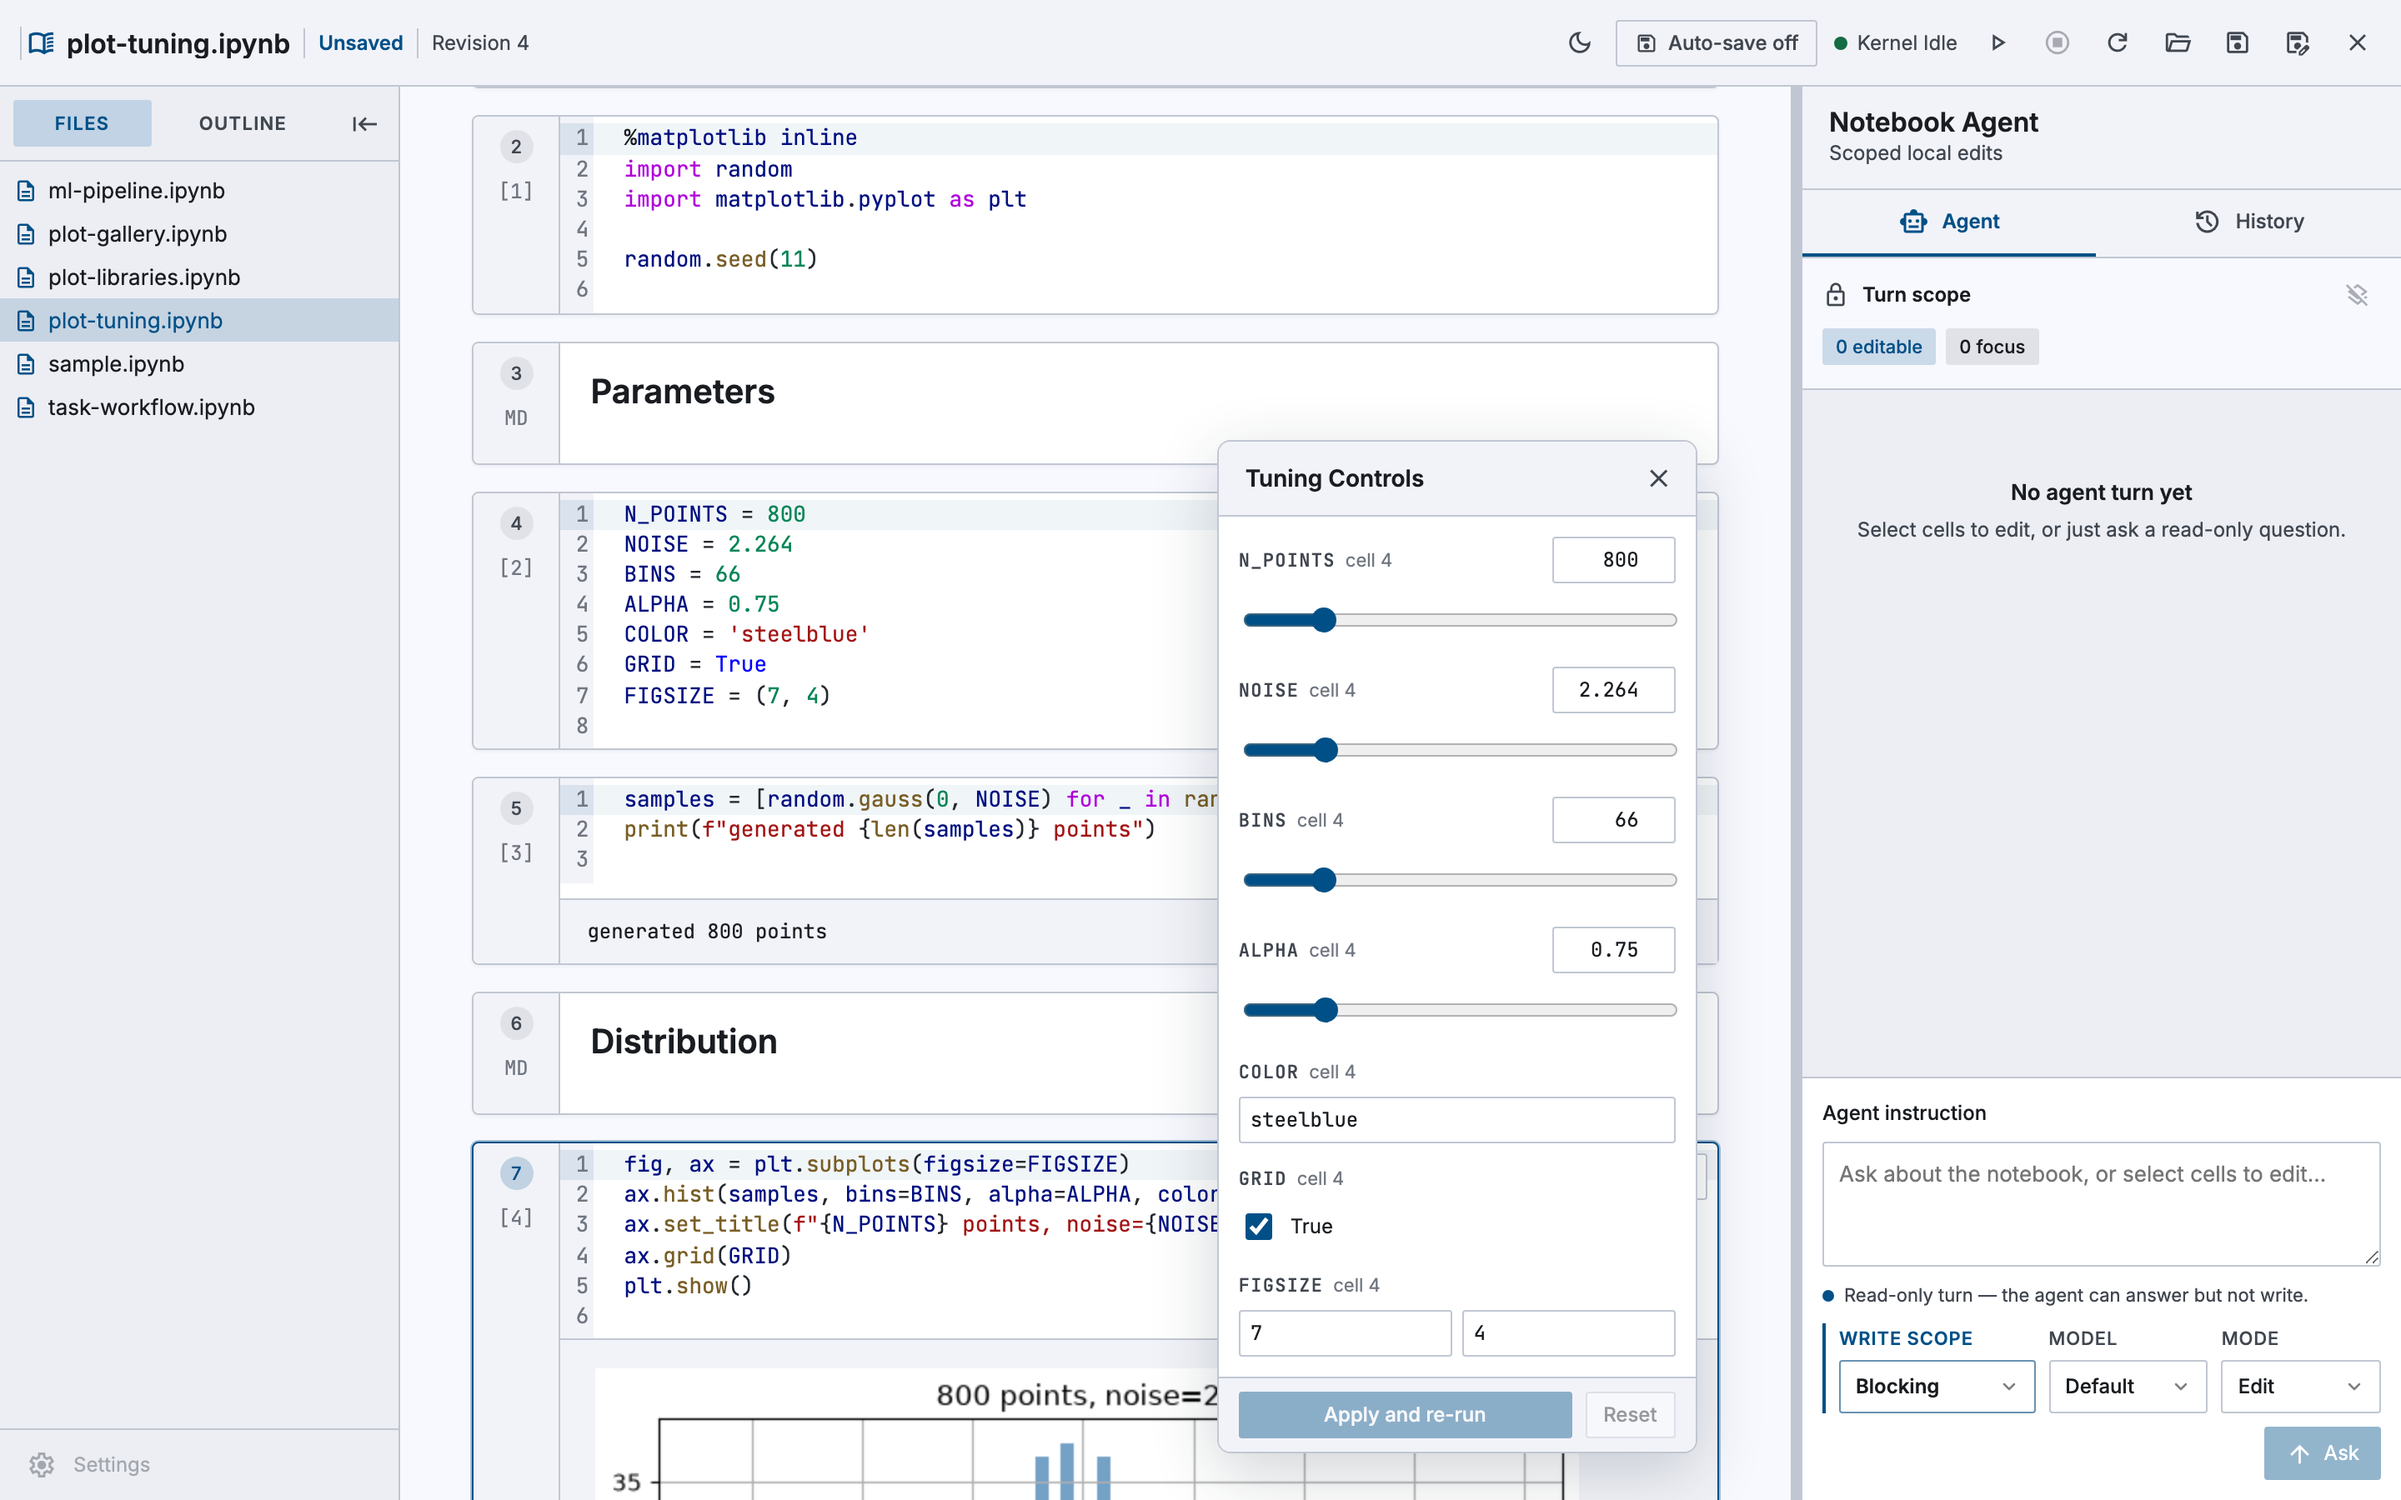
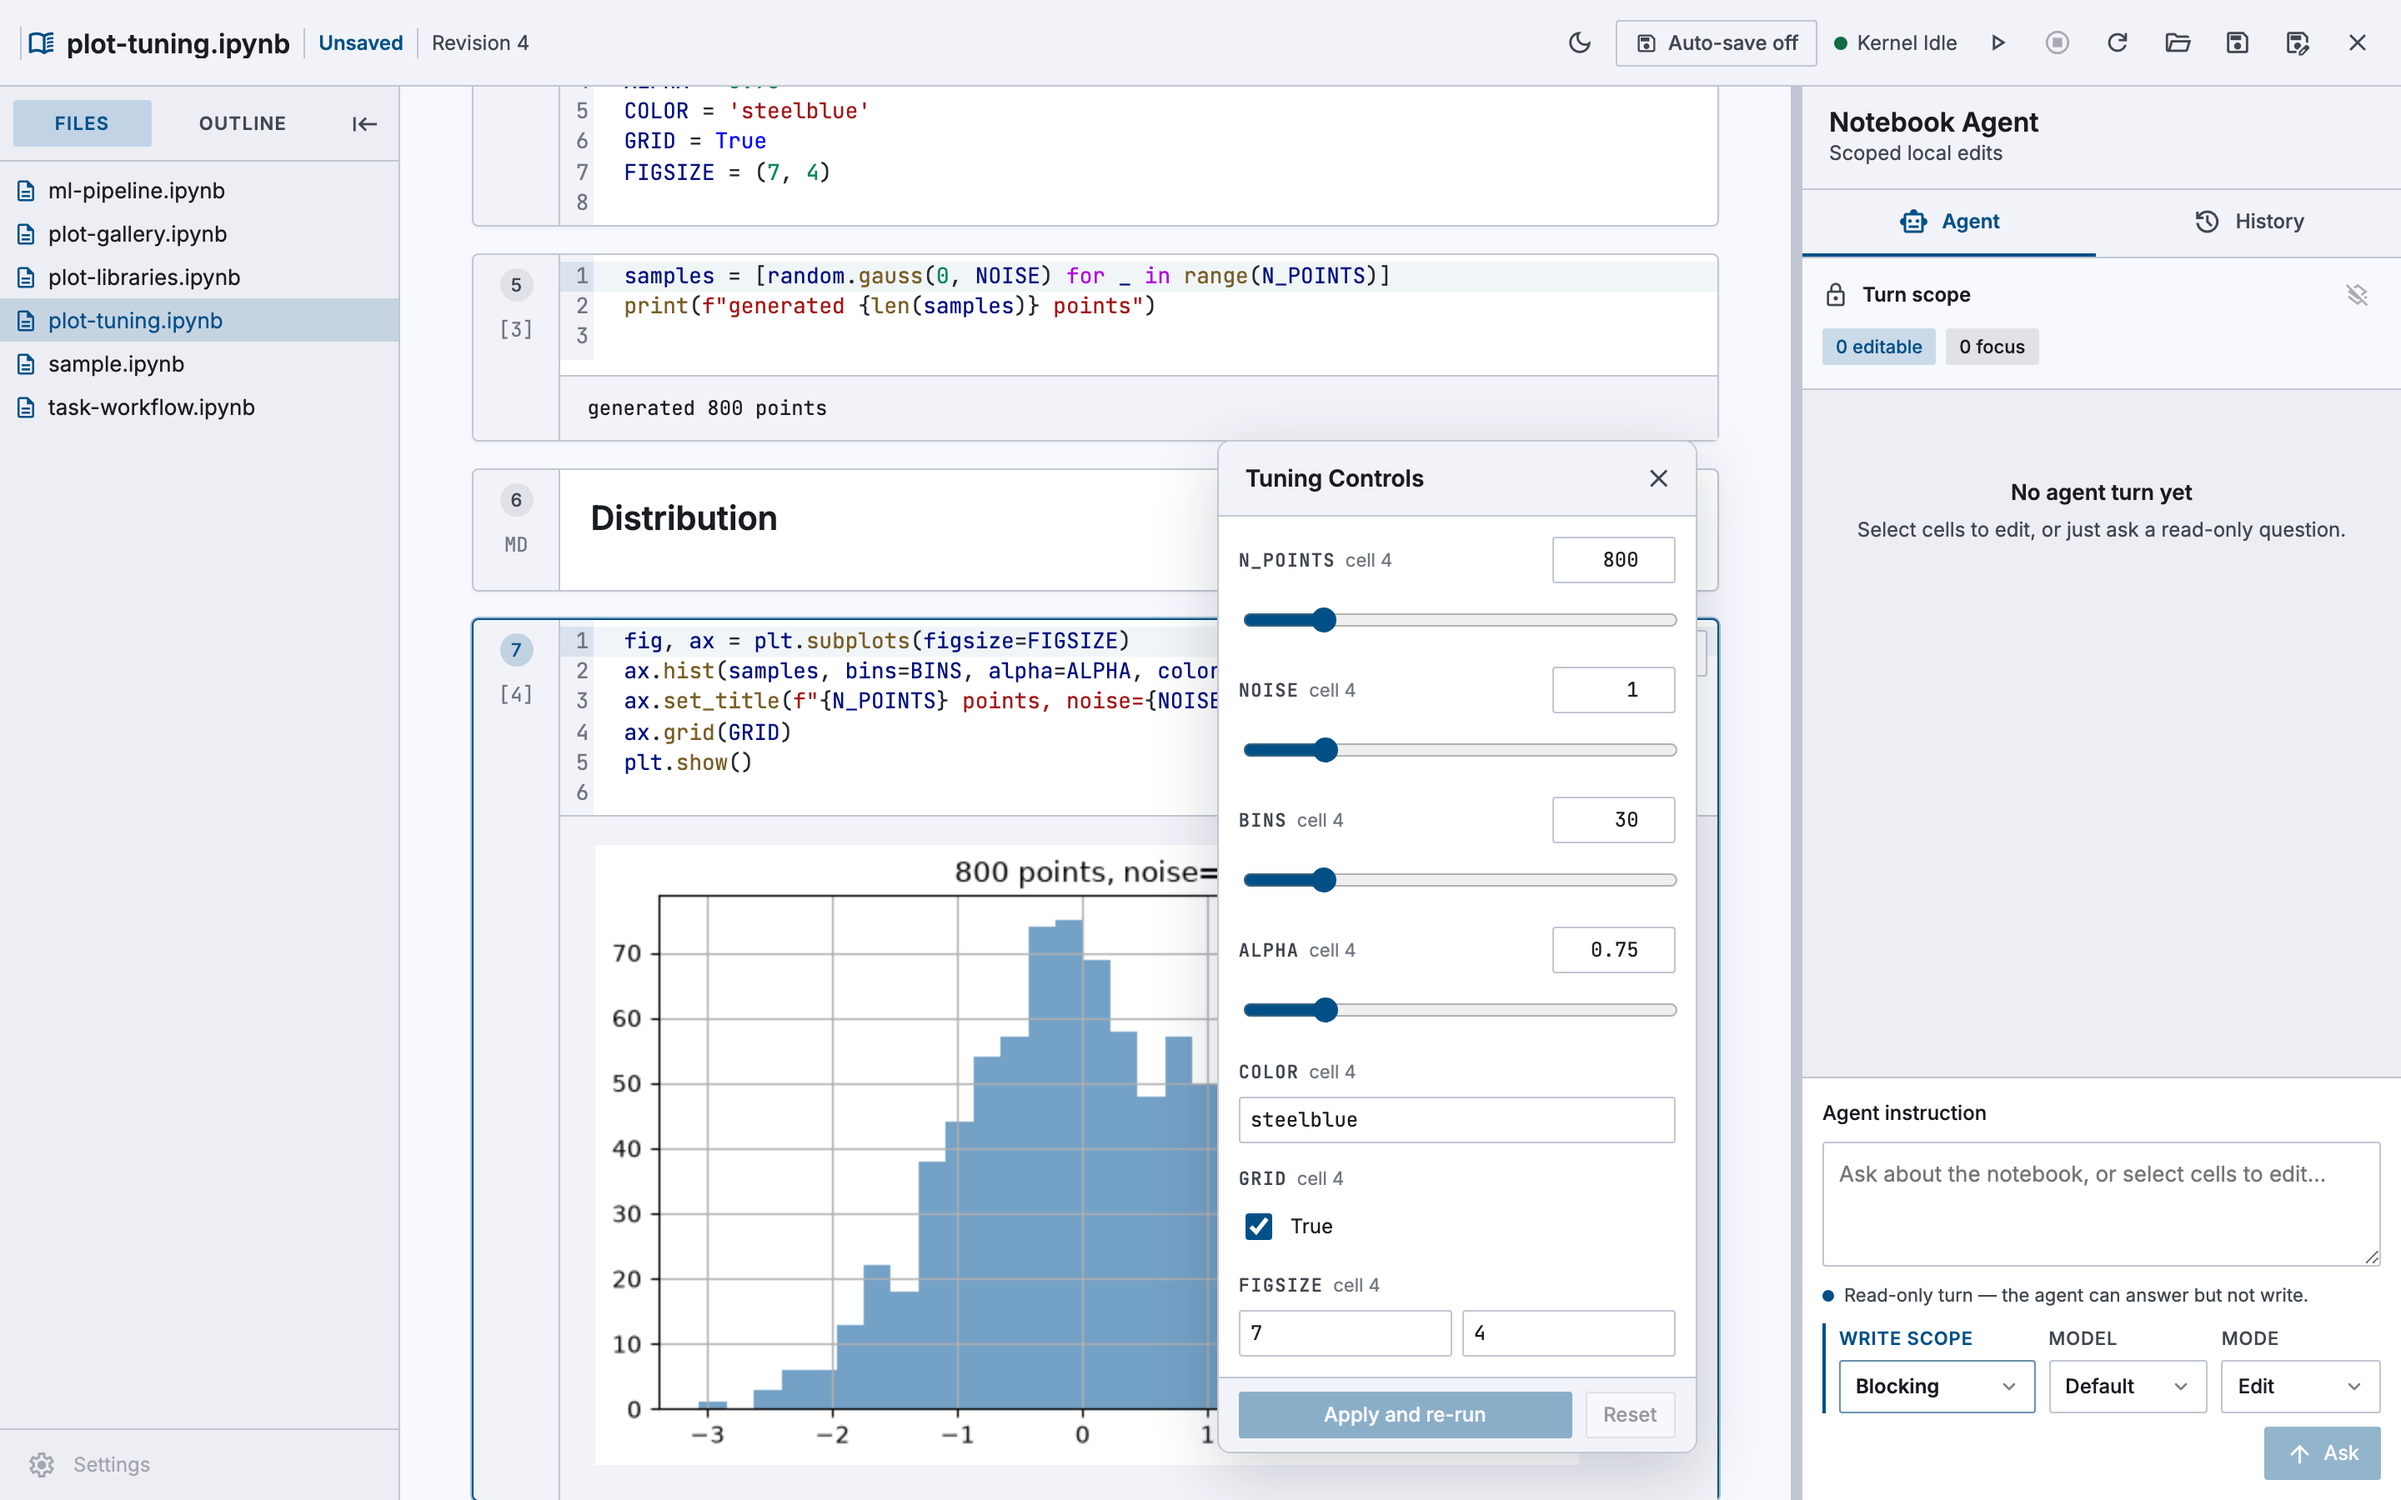
readme: add the plot tuner, framed so the plot is in it
A fourth shot, and the one feature the README documented nowhere: the
knobs exist, and someone reading the page had no way to learn that.

The shot needed re-taking first. 07 photographed the popover with the
histogram below the fold — controls, and not the thing they control,
which is the whole point of the panel. The capture script now scrolls
`.tuning-preview-column` into frame before shooting: the preview sits in
flow where the cell's outputs were and the popover is position:fixed, so
scrolling moves the picture and leaves the controls put. The knobs still
cover part of the plot, which is what tuning actually looks like — the
popover floats over the notebook by design (stitch-diff B6).

The caption says what the panel is for rather than what it contains,
because the preview/apply split is the part that is not guessable from a
picture: moving a knob re-runs the cell into a preview labelled "not in
your notebook yet", and Apply and re-run is what writes the values back.
A reader who assumes a slider edits their notebook live would be wrong
about the one thing worth knowing.

MANIFEST.txt is left as it was. SHOT_ONLY=07 rewrites it with only the
shot it captured, which would have read as an artifact set of one.

diff --git a/README.md b/README.md
@@ -50,6 +50,14 @@ after the notebook moves on.
 </tr>
 </table>
 
+Plots get knobs. **Tune** scans the cells above a figure for values it can vary
+safely — sizes, counts, colours, flags — and puts each on a control, floating
+over the notebook so the picture keeps the full width of the cell. Moving one
+re-runs the cell into a preview labelled *not in your notebook yet*; **Apply and
+re-run** is what writes the values back. Nothing is committed until you press it.
+
+![The Tuning Controls popover open over a histogram, with sliders for N_POINTS, NOISE, BINS and ALPHA](docs/screenshots/07-tuning-panel.png)
+
 Screenshots are captured from a live session against the notebooks in
 `examples/`, with a real kernel and the real Claude CLI. See
 [`docs/screenshots/`](docs/screenshots/) for the full set and how to re-capture
